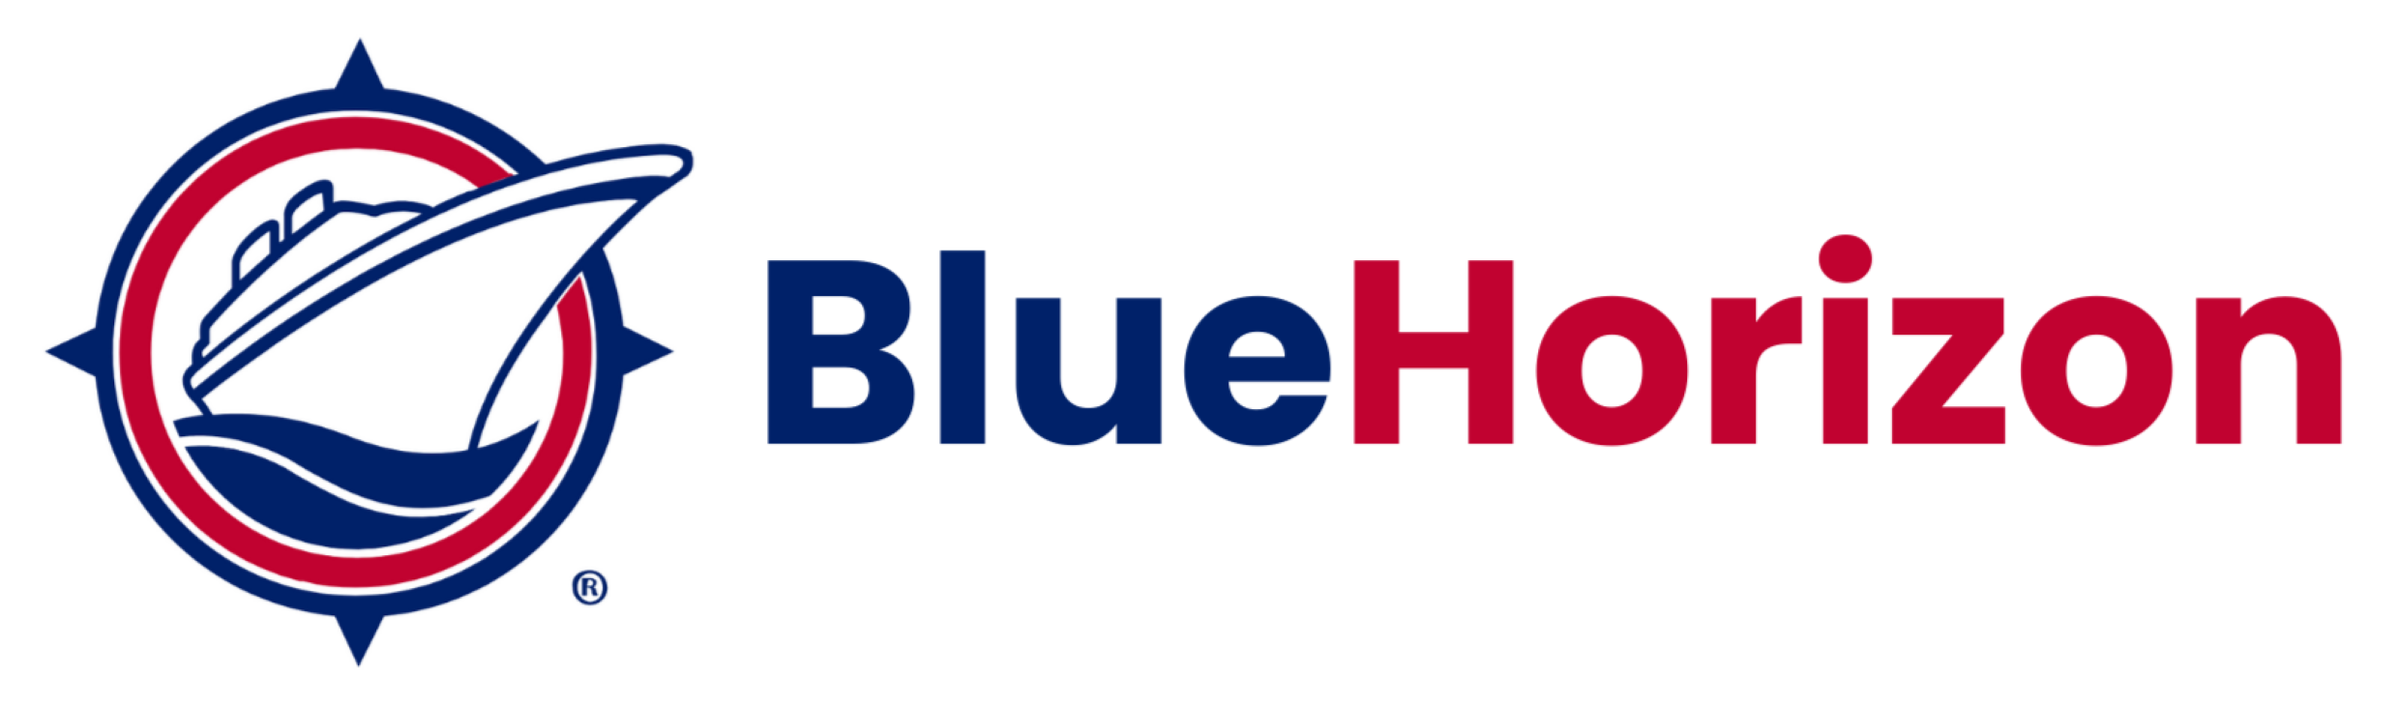
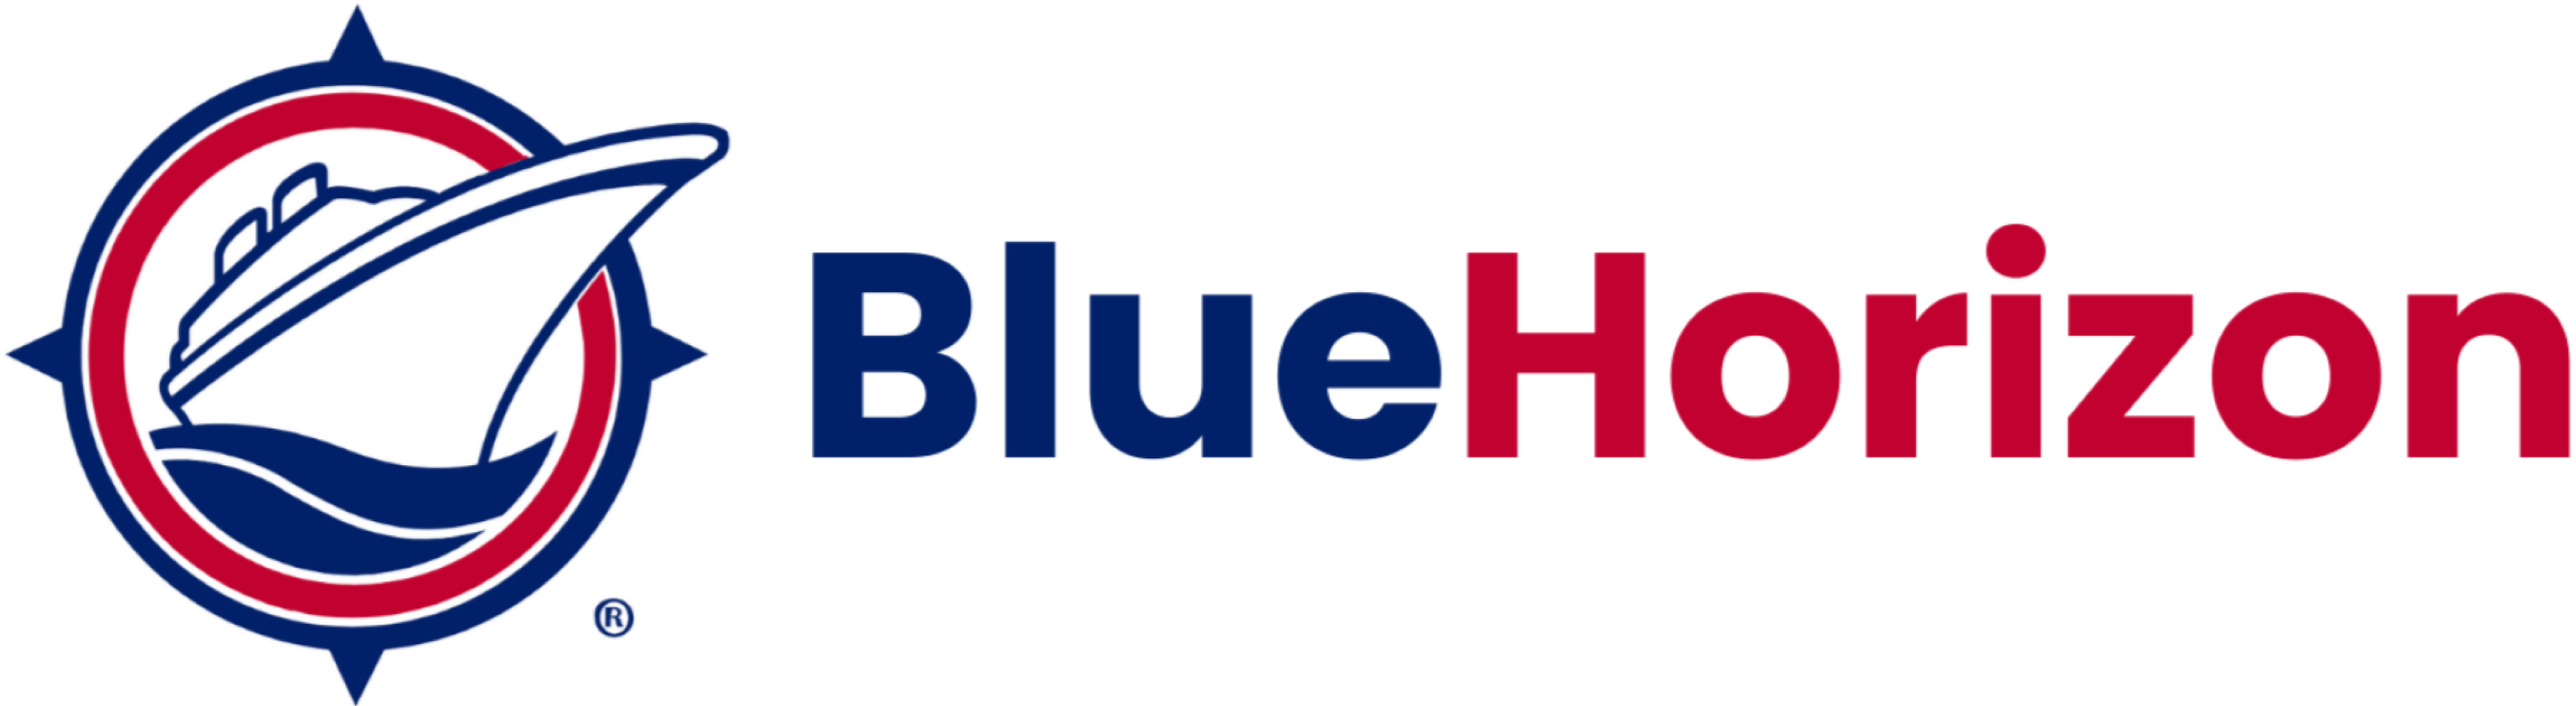
Changed Design
colors
text
logo

Changed region(s): [[0.3106, 0.3014, 1.0, 0.663], [0.0, 0.0, 0.3106, 0.9945], [0.3727, 0.3315, 0.4349, 0.3616]]

diff --git a/BlueHorizon/src/About.js b/BlueHorizon/src/About.js
@@ -4,20 +4,20 @@ import TextBox from "./TextBox";
 const About = () => {
     const textContent = [
         {
-            title: "About FlyHigh Agency",
+            title: "About BlueHorizon Agency",
             id: 1,
-            body: "FlyHigh Agency specializes in designing tailored vacation experiences and exclusive extras at an exceptional value.",
-            footer: "When you book your holiday through FlyHigh Agency, you'll enjoy the benefits of our global buying power and extensive partnerships which deliver exceptional value and access to unique travel 'perks' - making every holiday experience an unforgettable one."
+            body: "BlueHorizon Agency specializes in designing tailored vacation experiences and exclusive extras at an exceptional value.",
+            footer: "When you book your holiday through BlueHorizon Agency, you'll enjoy the benefits of our global buying power and extensive partnerships which deliver exceptional value and access to unique travel 'perks' - making every holiday experience an unforgettable one."
         },
         {
             title: "Tailored holiday experiences for every style and budget",
             id: 2,
-            body: "The expert travel advisors at FlyHigh Agency have every vacation style, budget and experience covered. Our customers enjoy tailor-made travel experiences at exceptional value by leveraging our global supplier negotiations and experienced professional travel teams. Our travel advisors combine first-hand travel experience with first-class industry knowledge, ensuring your vacations are planned and delivered with ease, efficiency and accuracy."
+            body: "The expert travel advisors at BlueHorizon Agency have every vacation style, budget and experience covered. Our customers enjoy tailor-made travel experiences at exceptional value by leveraging our global supplier negotiations and experienced professional travel teams. Our travel advisors combine first-hand travel experience with first-class industry knowledge, ensuring your vacations are planned and delivered with ease, efficiency and accuracy."
         },
         {
-            title: "Luxury escapes with FlyHigh Agency",
+            title: "Luxury escapes with BlueHorizon Agency",
             id: 3,
-            body: "As a FlyHigh Agency customer, you'll also enjoy access to extraordinary travel upgrades and premium products that most travel agencies simply cannot provide.",
+            body: "As a BlueHorizon Agency customer, you'll also enjoy access to extraordinary travel upgrades and premium products that most travel agencies simply cannot provide.",
             footer: "Through our invitation-only membership of the Virtuoso travel network, we partner with more than 1,800 of the world's best hotels, cruise lines and tour operators to deliver superior vacation experiences for our discerning customers. From bespoke travel itineraries, unique travel experiences, value-added extras, complimentary perks and VIP treatment, your vacation with FlyHigh Agency is guaranteed to deliver long-lasting memories."
         }
     ]

diff --git a/BlueHorizon/src/Home.js b/BlueHorizon/src/Home.js
@@ -28,21 +28,20 @@ const Home = () => {
 
                     <h1 className="h2">
                         Welcome to <br />
-                        <span className="span1">Fly</span><span className="span2">High</span>
-                        <span className="span3">Agency</span>
+                        <span className="span1">Blue</span><span className="span2">Horizon</span>
                     </h1>
                 </div>
 
                 <div className="introbody">
-                    <p className="ph5">For Travelers who expect more, FlyHigh Agency specializes in 
+                    <p className="ph5">For Travelers who expect more, BlueHorizon Agency specializes in 
                         designing tailored vacation and travel experiences to make 
                         your travel dreams a reality</p> 
 
                     <p>From weekend getaways to extended, family-focused itineraries and
-                        luxury escapes when you book with FlyHigh Agency, you'll enjoy
+                        luxury escapes when you book with BlueHorizon Agency, you'll enjoy
                         the same level of exemplary service and value you've come to expect.</p>
 
-                    <p>When you book your holiday through FlyHigh Agency, you'll enjoy 
+                    <p>When you book your holiday through BlueHorizon Agency, you'll enjoy 
                         the benefits of our global buying power and extensive partnerships
                         which deliver exceptional value and access to unique travel
                         'perks' - making every holiday experience an unforgettable one.</p>

diff --git a/BlueHorizon/src/index.css b/BlueHorizon/src/index.css
@@ -20,7 +20,8 @@ code {
   position:fixed;
   width: 100%;
   z-index: 10;
-  border-bottom: 1px solid gray;
+  border-bottom: 1px solid #04246c;
+  box-shadow: 0 0 10px #04246c;
 }
 
 .navbar-list {
@@ -54,11 +55,12 @@ code {
   font-weight: bold;
   font-size: 16px;
   transition: color 0.3s ease;
+  display: flex;
 }
 
 .navbar-link:hover ,
 .navbar-link-book:hover {
-  color: rgb(59, 120, 232);
+  color: #c40535;
 }
 
 .navbar-link-book:hover {
@@ -66,8 +68,9 @@ code {
 }
 
 .logoNav{
-  width: 150px;
+  /* width: 150px; */
   margin-left: 40px;
+  height: 70px;
 }
 
 .carousel {
@@ -104,7 +107,7 @@ code {
 }
 
 .introbody .ph5{
-  color: rgb(59, 120, 232);
+  color: #04246c;
   font-weight: bold;
   margin-bottom: 20px;
 }
@@ -114,15 +117,11 @@ p {
 }
 
 .span1 {
-  color: black;
+  color: #04246c;
 }
 
 .span2 {
-  color: rgb(59, 120, 232);
-}
-
-.span3 {
-  color: rgb(81, 81, 82);
+  color: #c40535;
 }
 
 .randText {
@@ -161,7 +160,7 @@ p {
 }
 
 .separatorLink:hover {
-  color: rgb(59, 120, 232) !important;
+  color: #c40535 !important;
   box-shadow: 3px 3px 0px black;
 }
 
@@ -188,7 +187,7 @@ p {
 }
 
 .textBox .textFooter {
-  color: rgb(59, 120, 232);
+  color: #04246c;
   margin-top: 20px;
 }
 
@@ -197,7 +196,7 @@ p {
 }
 
 .contactBox {
-  background-color: rgb(59, 120, 232);
+  background-color: rgba(0,33,105,255);
   display: flex;
   align-items: center;
   justify-content: center;
@@ -276,7 +275,7 @@ p {
 .submitContactForm {
   border: none;
   height: 40px;
-  background-color: rgba(59, 120, 232, 1);
+  background-color: #c40535;
   margin-top: 20px;
   cursor: pointer;
   transition: 0.3s ease;

diff --git a/BlueHorizon/src/Contact.js b/BlueHorizon/src/Contact.js
@@ -6,17 +6,16 @@ const Contact = () => {
 
                     <h1 className="h2">
                         Contact <br />
-                        <span className="span1">Fly</span><span className="span2">High</span>
-                        <span className="span3">Agency</span>
+                        <span className="span1">Blue</span><span className="span2">Horizon</span>
                     </h1>
                 </div>
 
                 <div className="introbody">
-                    <p className="ph5">Contact FlyHigh Agency to start planning your next dream vacation.</p> 
+                    <p className="ph5">Contact BlueHorizon Agency to start planning your next dream vacation.</p> 
 
                     <p>Our expert travel advisors are on hand to discuss your travel needs and design the perfect travel experience to suit your style and budget.</p>
 
-                    <p>From relaxing, all-inclusive beach getaways, to a thrilling adventure complete with activities for the whole family - FlyHigh advisors have the knowledge and expertise to plan your ideal experience.</p>
+                    <p>From relaxing, all-inclusive beach getaways, to a thrilling adventure complete with activities for the whole family - BlueHorizon advisors have the knowledge and expertise to plan your ideal experience.</p>
                      
                 </div>
             </div>

diff --git a/BlueHorizon/src/Footer.js b/BlueHorizon/src/Footer.js
@@ -2,7 +2,7 @@ const Footer = () => {
     return ( 
         <div className="footer">
             <img src={require("./2.png")} className='logoNav' alt="" />
-            <p>© 2023 FlyHigh Agency All Rights Reserved</p>
+            <p>© 2023 BlueHorizon Agency All Rights Reserved</p>
         </div>
     );
 }
